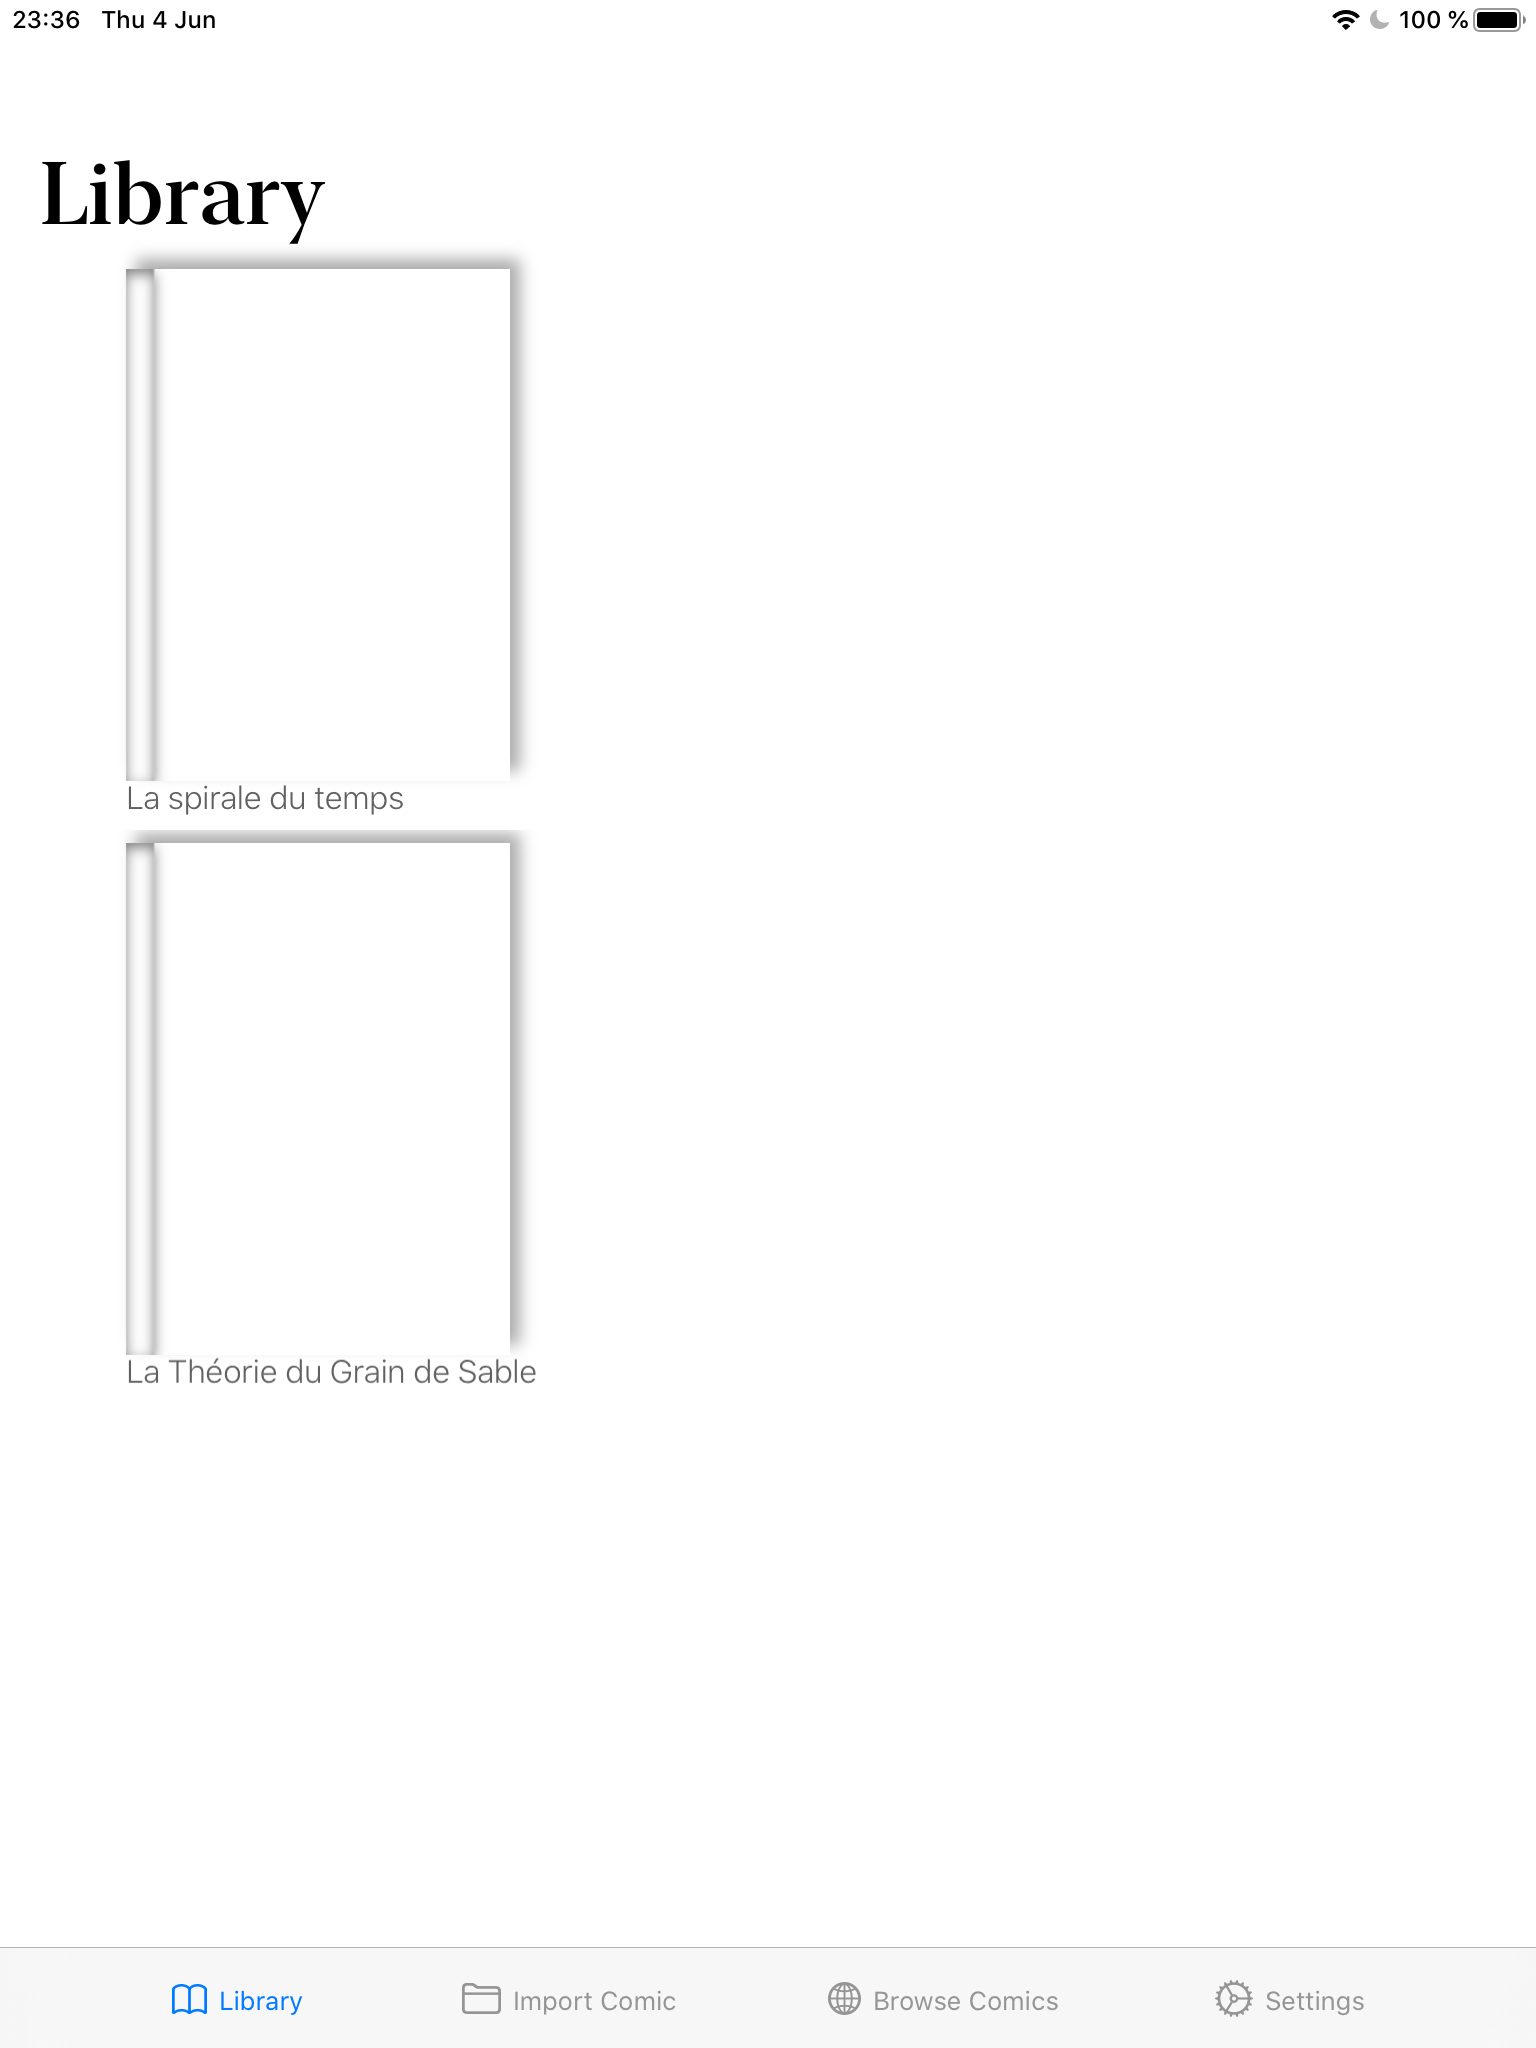
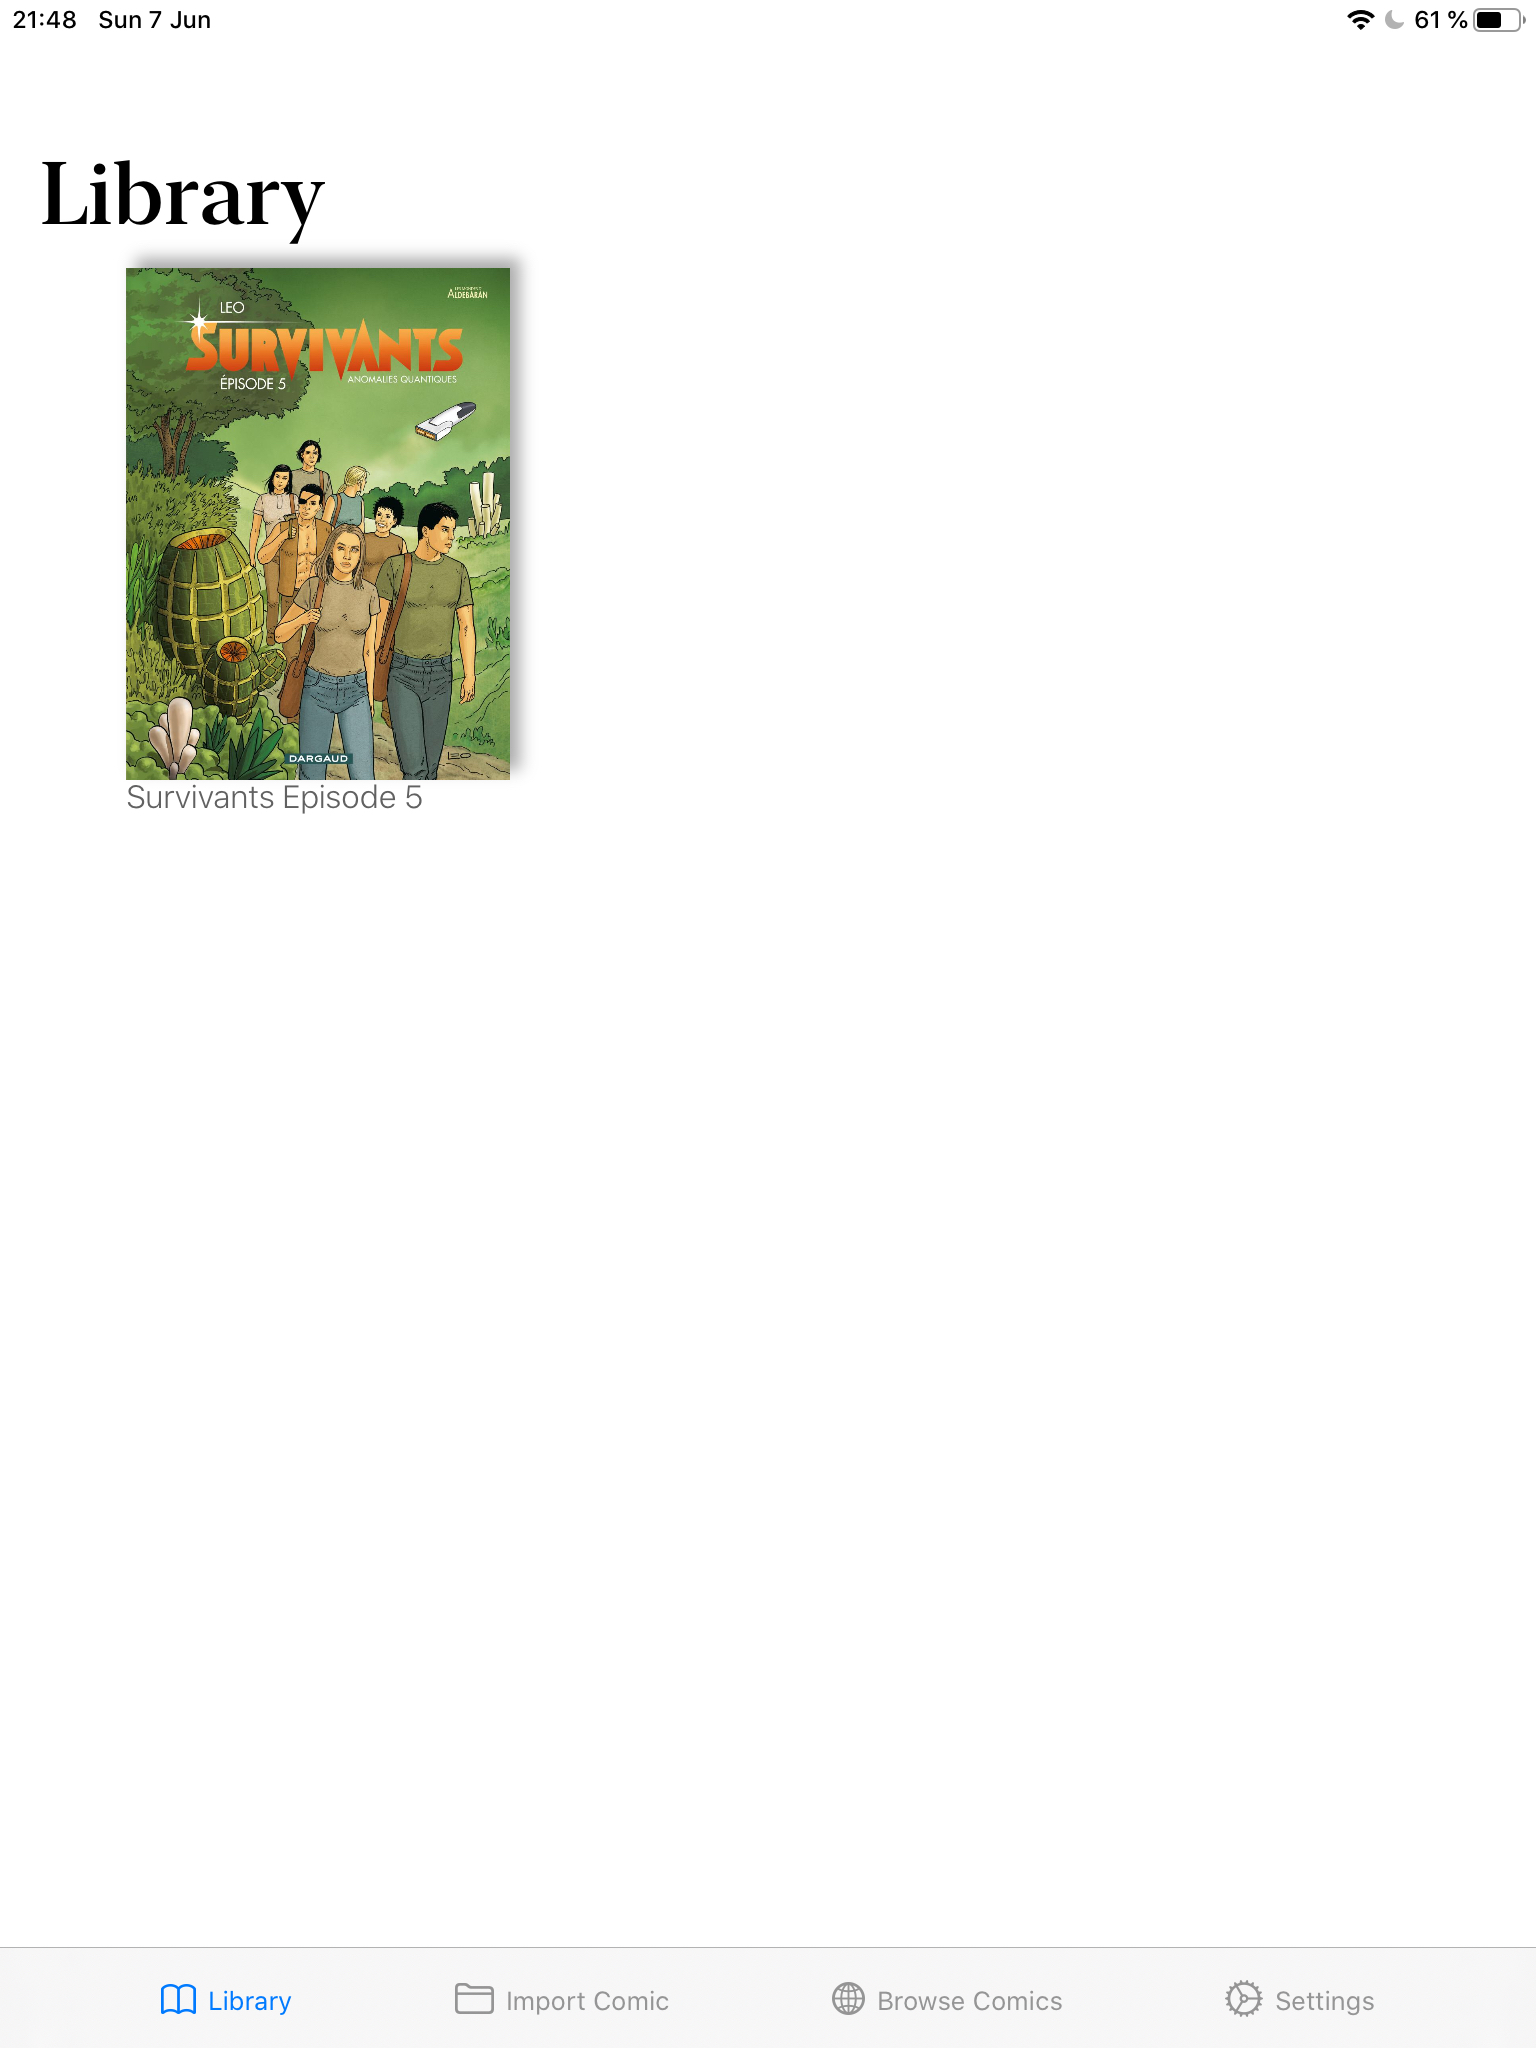
update readme

diff --git a/README.md b/README.md
@@ -17,7 +17,7 @@ I plan to release a fast and easy to use app. To do that, i'm using Realm as a d
 
 ## Screenshots
 
-Expectation             |  Reality (As of 04/06/20)
+Expectation             |  Reality (As of 07/06/20)
 :-------------------------:|:-------------------------:
 ![Expectation](Screenshots/expectation.jpg)  |  ![Reality](Screenshots/reality.jpeg)
-Initial mockup | SwiftUI List linked with Realm Database
+Initial mockup | SwiftUI List linked with Realm Database (Fixed cover issue)
